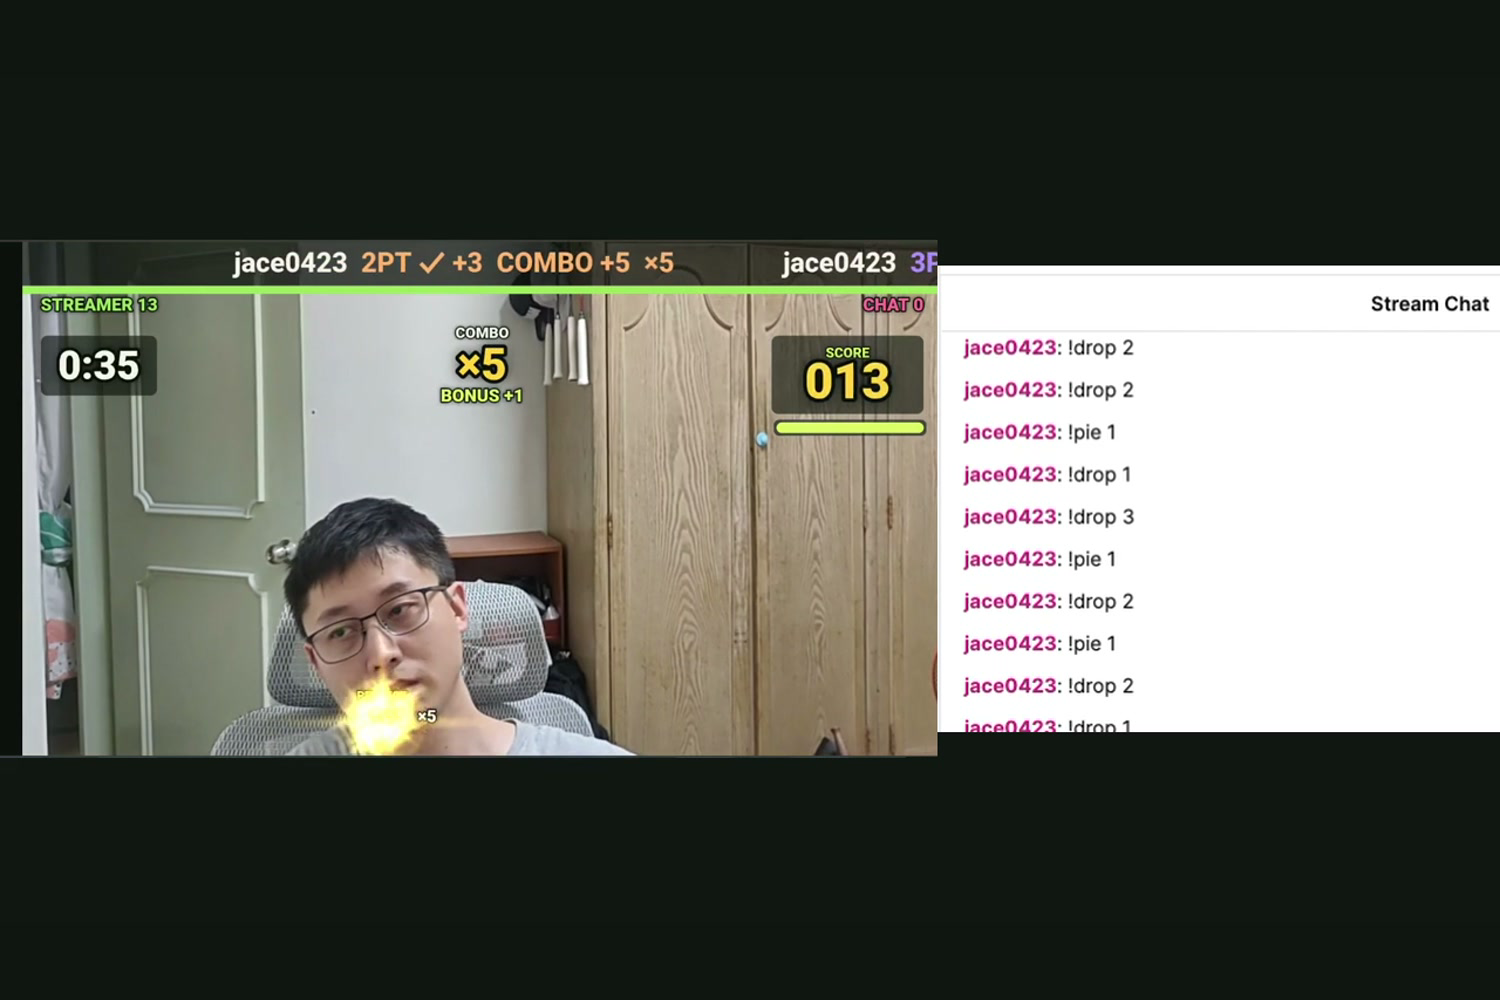
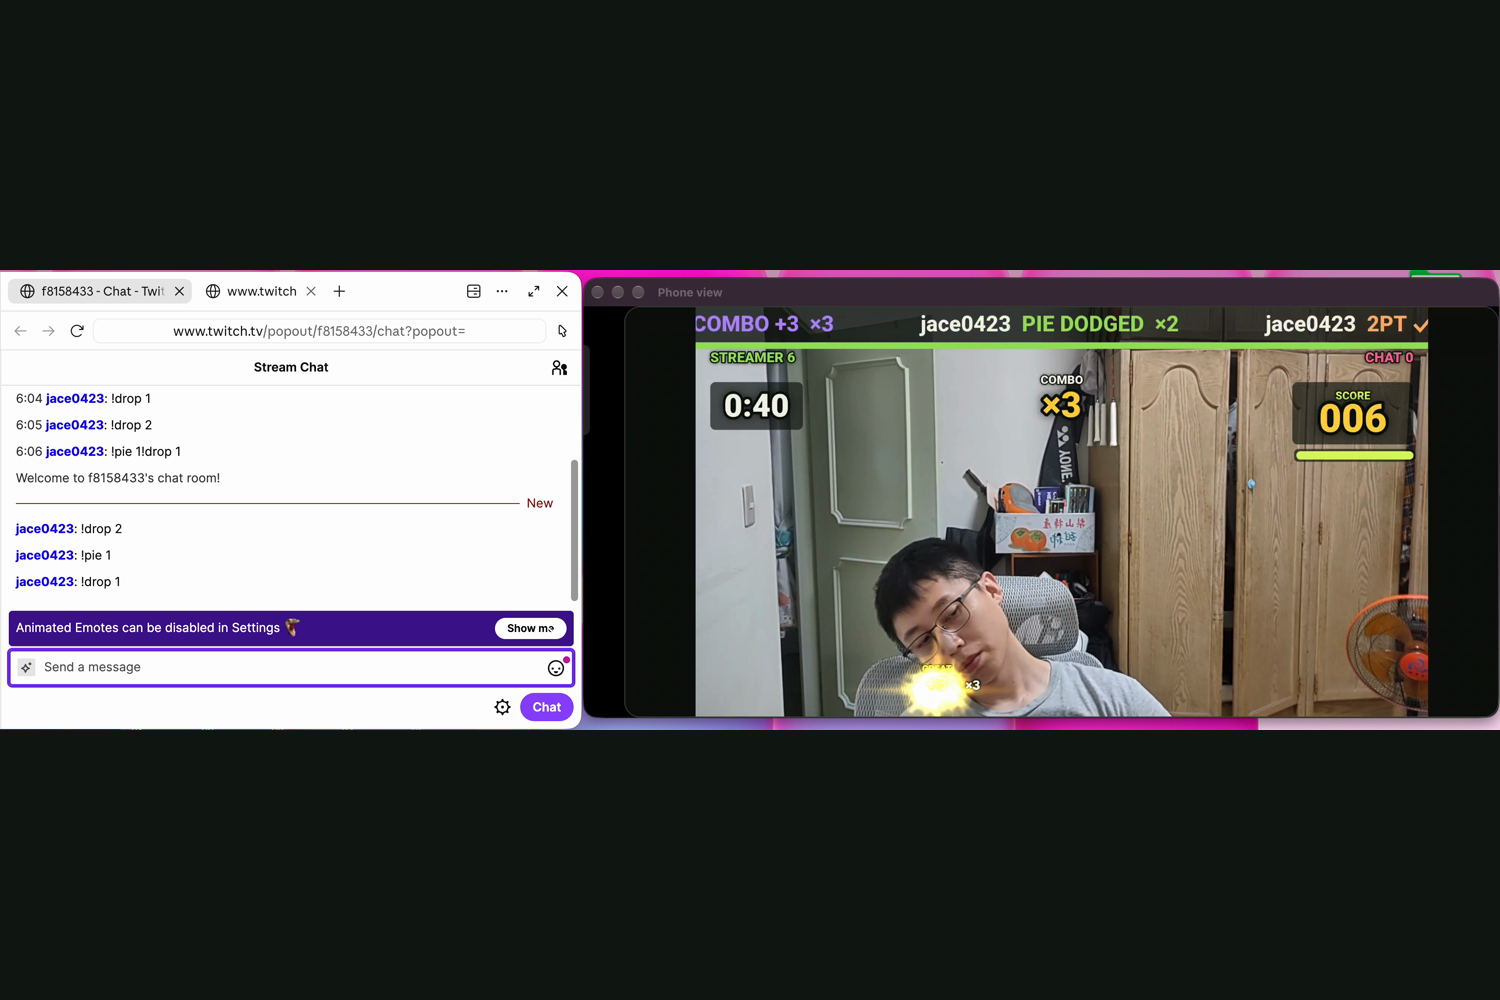
Update demo video link and Twitch segment description (one continuous screen recording)

diff --git a/README.md b/README.md
@@ -24,7 +24,7 @@ A Twitch interactive game for a seated streamer, themed as basketball. Chat shoo
 
 ## Screenshots
 
-Frames from the demo video (https://youtu.be/TCVOmGxHkVA). The game footage is a local recording, not a live broadcast; the chat window is real Twitch chat typed from a second account, shown next to a separate recording of the game (the two are not frame-synchronised).
+Frames from the demo video (https://youtu.be/jRqK3OyzvSU). The game footage is a local recording, not a live broadcast; the Twitch segment is one continuous screen recording of real Twitch chat typed from a second viewer account (left) and the game on a phone (right).
 
 | | |
 |---|---|

diff --git a/SUBMISSION.md b/SUBMISSION.md
@@ -29,7 +29,7 @@ In the main Codex thread (about 16 hours and 1,615 tool calls) we designed the p
 https://github.com/jiarong0423/streamer-mayhem
 
 ## Demo video
-https://youtu.be/TCVOmGxHkVA
+https://youtu.be/jRqK3OyzvSU
 
 ## Built with
 JavaScript (no build step), Node.js, HTML Canvas, Twitch EventSub WebSocket, Twitch OAuth, OBS Browser Source, OpenAI Codex, Claude Code, Kokoro-82M (local announcer voice clips).
